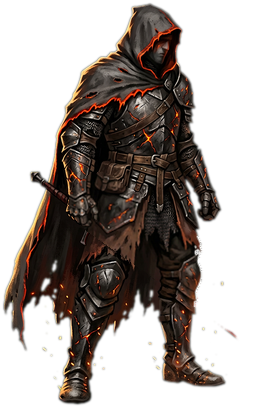
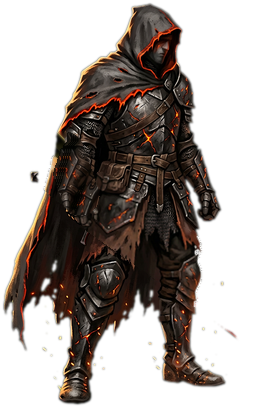
Взмах вместе с рукой: слой руки и росчерк за кистью; кнопки отката не мельчают

Changed region(s): [[0.1176, 0.3235, 0.3824, 0.5294]]

diff --git a/tools/rig_assets.py b/tools/rig_assets.py
@@ -103,6 +103,46 @@ def weapon_mask(image: Image.Image, config: dict) -> np.ndarray:
     return drop_small(mask, int(config.get("min_component_pixels", 120)))
 
 
+def arm_mask(image: Image.Image, config: dict) -> np.ndarray:
+    """Маска руки с оружием: предплечье и кисть до локтя.
+
+    Рука вырезается из тела отдельным слоем, чтобы в взмахе участвовала не
+    только сталь, но и кисть. Клинок остаётся дочерним слоем руки.
+    """
+    arm = config.get("arm")
+    if not isinstance(arm, dict) or not arm.get("points"):
+        return np.zeros((image.size[1], image.size[0]), dtype=bool)
+    width, height = image.size
+    alpha = np.asarray(image).astype(np.float32)[:, :, 3]
+    mask = segment_mask(width, height, arm.get("points", []), float(arm.get("radius", 16.0)))
+    mask = mask & (alpha > 24)
+    gate = arm.get("color_gate")
+    if gate:
+        # Плащ тёмный и почти без синего: в слой руки идёт сталь и кожа кисти.
+        array = np.asarray(image).astype(np.float32)
+        value = array[:, :, :3].mean(axis=2)
+        mask = mask & (value > float(gate.get("min_value", 42.0)))
+    return drop_small(mask, int(config.get("min_component_pixels", 120)))
+
+
+def fill_arm_hole(rgb: np.ndarray, mask: np.ndarray, solid: np.ndarray) -> np.ndarray:
+    """Затягивает место, где была рука: отражение второй половины и рост от краёв.
+
+    Затемнение здесь не нужно: под рукой плащ, а не тень от оружия.
+    """
+    filled, done = _mirror_fill(rgb, mask, solid)
+    rest = mask & solid & (~done)
+    if rest.any():
+        grown = _spread_fill(filled, mask, solid)
+        filled = np.where(rest[:, :, None], grown, filled)
+    band = dilate(mask, 1) & solid
+    soft = np.asarray(Image.fromarray(np.clip(filled, 0, 255).astype(np.uint8))
+                      .filter(ImageFilter.GaussianBlur(1.6))).astype(np.float32)
+    seam = band & dilate(mask, 1)
+    filled[seam] = (filled[seam] * 0.6 + soft[seam] * 0.4)
+    return filled
+
+
 def dilate(mask: np.ndarray, steps: int) -> np.ndarray:
     grown = mask.copy()
     for _step in range(steps):
@@ -320,8 +360,20 @@ def build(image: Image.Image, config: dict) -> tuple:
         solid = source[:, :, 3] > 24
         body[:, :, :3] = inpaint_hole(body[:, :, :3], core, solid, config)
     body[:, :, :3] = _fix_alpha_border(body[:, :, :3], body[:, :, 3])
+    arm_image = Image.new("RGBA", image.size, (0, 0, 0, 0))
+    arm_cut = arm_mask(image, config)
+    if arm_cut.any():
+        # Рука берётся из тела: клинка в ней уже нет, только кисть и предплечье.
+        arm_pixels = body.copy()
+        arm_pixels[:, :, 3] = np.where(arm_cut, body[:, :, 3], 0.0)
+        soft = Image.fromarray((arm_cut * 255).astype(np.uint8)).filter(ImageFilter.GaussianBlur(0.7))
+        arm_pixels[:, :, 3] = arm_pixels[:, :, 3] * (np.asarray(soft).astype(np.float32) / 255.0)
+        arm_image = Image.fromarray(np.clip(arm_pixels, 0, 255).astype(np.uint8))
+        solid = body[:, :, 3] > 24
+        body[:, :, :3] = fill_arm_hole(body[:, :, :3], arm_cut, solid)
+        body[:, :, :3] = _fix_alpha_border(body[:, :, :3], body[:, :, 3])
     body_image = Image.fromarray(np.clip(body, 0, 255).astype(np.uint8))
-    return body_image, blade_image, core
+    return body_image, blade_image, core, arm_image
 
 
 def _fix_alpha_border(rgb: np.ndarray, alpha: np.ndarray) -> np.ndarray:
@@ -390,14 +442,21 @@ def main() -> int:
             print(f"  {name}: нет файла {source}")
             continue
         image = Image.open(source).convert("RGBA")
-        body, blade, mask = build(image, config)
+        body, blade, mask, arm = build(image, config)
         body_path = ROOT / str(config["body"]).replace("res://", "")
         blade_path = ROOT / str(config["blade"]).replace("res://", "")
         body_path.parent.mkdir(parents=True, exist_ok=True)
         body.save(body_path, optimize=True)
         blade.save(blade_path, optimize=True)
+        extra = ""
+        arm_path_value = str(config.get("arm_file", "")).replace("res://", "")
+        if arm_path_value:
+            arm_path = ROOT / arm_path_value
+            arm_path.parent.mkdir(parents=True, exist_ok=True)
+            arm.save(arm_path, optimize=True)
+            extra = f", {arm_path.name} {arm_path.stat().st_size // 1024} КБ"
         print(f"  {name}: {body_path.name} {body_path.stat().st_size // 1024} КБ, "
-              f"{blade_path.name} {blade_path.stat().st_size // 1024} КБ")
+              f"{blade_path.name} {blade_path.stat().st_size // 1024} КБ{extra}")
         if show_preview:
             preview(name, image, body, blade, mask, config)
     return 0

diff --git a/tools/validate_repo.py b/tools/validate_repo.py
@@ -805,6 +805,15 @@ else:
             err(f"data/balance.json: у рига {character_id} не задан радиус росчерка")
         if not ("rest_degrees" in entry):
             err(f"data/balance.json: у рига {character_id} не задан наклон оружия в стойке")
+        arm_file = str(entry.get("arm_file", "")).replace("res://", "")
+        if arm_file:
+            if not (ROOT / arm_file).is_file() or not (ROOT / (arm_file + ".import")).is_file():
+                err(f"data/balance.json: у рига {character_id} нет слоя руки {arm_file}")
+            arm_pivot = entry.get("arm_pivot", [])
+            if not isinstance(arm_pivot, list) or len(arm_pivot) < 2 or float(arm_pivot[0]) <= 0 or float(arm_pivot[1]) <= 0:
+                err(f"data/balance.json: у рига {character_id} не задано плечо руки")
+            if float(entry.get("arm_strike_degrees", 0)) == float(entry.get("arm_windup_degrees", 0)):
+                err(f"data/balance.json: у рига {character_id} рука не двигается в взмахе")
 figures = hud.get("enemy_figures", {})
 if not isinstance(figures, dict) or len(figures.get("by_id", {})) < 10 or len(figures.get("figures", [])) < 3:
     err("data/balance.json: фигуры войск противника заданы не полностью")

diff --git a/docs/android.md b/docs/android.md
@@ -19,7 +19,9 @@
 4. На устройстве с ограниченной производительностью включить 30 FPS и упрощённый режим эффектов. Фоновые частицы, всплывающие подписи и подсветки должны отключиться, а журнал боя, полосы здоровья и управление остаться рабочими.
 5. Сравнить полный и упрощённый режимы в боссовом бою. В служебной строке виден замер `КАДРЫ …`; цель проекта — стабильные 60 FPS на целевом устройстве, 30 FPS допустимы как экономичный вариант.
 6. Проверить все шесть подписанных кнопок нижней навигации: `БОЙ`, `ИНВЕНТАРЬ`, `ПРИЗЫВ`, `ПРОГРЕССИЯ`, `РЕЖИМЫ`, `НАСТРОЙКИ`. Каждая кнопка с локальной иконкой и подписью открывает свой реальный раздел; заголовок меняется, активный раздел выделен и показывает `СКРЫТЬ`, одновременно открыта одна рабочая панель, длинные подписи не обрезаются и не требуют горизонтальной прокрутки, а боковой колонки иконок больше нет.
-7. Проверить ручной удар, щит, автобой, победу, переход этапа, раздел трёх режимов, Башню и подземелье. Эффекты должны оставаться ограниченными пулом из `presentation.effect_pool.capacity`. При каждом ударе фигуры должны двигаться: герой делает шаг к врагу и замахивается мечом, латник — топором, защитник отшатывается, и всё возвращается на место; клинок не должен дёргаться отдельно от кисти и не должен дублироваться: в стойке в руке одно оружие, при взмахе на месте клинка не остаётся второго. Взмах должен читаться как замах, а не тычок: оружие сначала медленно уходит назад (около 0.18 c), потом резко проходит дугу в 140–170°, за ним тянется полоса росчерка, и только затем оно возвращается в стойку. Числа урона, `КРИТ`, название навыка и `ЩИТ` появляются одновременно, но не наезжают друг на друга и не закрывают строку здоровья героя и имя врага.
+7. Проверить ручной удар, щит, автобой, победу, переход этапа, раздел трёх режимов, Башню и подземелье. Эффекты должны оставаться ограниченными пулом из `presentation.effect_pool.capacity`. При каждом ударе фигуры должны двигаться: герой делает шаг к врагу и замахивается мечом, латник — топором, защитник отшатывается, и всё возвращается на место; клинок не должен дёргаться отдельно от кисти и не должен дублироваться: в стойке в руке одно оружие, при взмахе на месте клинка не остаётся второго. Взмах должен читаться как замах, а не тычок: оружие сначала медленно уходит назад (около 0.18 c), потом резко проходит дугу в 140–170°, за ним тянется полоса росчерка, и только затем оно возвращается в стойку. Рука с кистью должна двигаться вместе с '
+     'оружием, а не стоять на месте; на откате навыка кнопки удара и щита должны оставаться того же размера, '
+     'что и до нажатия. Числа урона, `КРИТ`, название навыка и `ЩИТ` появляются одновременно, но не наезжают друг на друга и не закрывают строку здоровья героя и имя врага.
 8. Проверить поворот/разные соотношения сторон в портретной ориентации, отсутствие мини-карты и джойстика, а также некликабельность декоративных блоков `СКОРО`. Панели не выходят за экран, заглушки не открывают пустые экраны, а частицы центрируются при изменении размера области отображения. Отдельно стоит посмотреть телефон 19.5:9 или 20:9 и планшет 4:3: на вытянутом экране боевая группа опускается к навигации без пустой полосы, на широком — арена тянется вправо, кластер навыков остаётся в правом нижнем углу, а ни одна подпись не обрезана. Имена врагов и подсказка над ареной должны читаться поверх факелов и луны благодаря тёмному ореолу букв.
 9. Свернуть приложение, вернуться позже и проверить локальное сохранение и AFK-награду до 12 часов. Закрыть приложение полностью и убедиться, что прогресс и настройки восстановились.
 10. Повторить короткую сессию без сети и убедиться в отсутствии зависаний, утечек звука, ошибок в логах и самопроизвольных сетевых запросов.

diff --git a/docs/ui.md b/docs/ui.md
@@ -138,6 +138,10 @@
 
 **Росчерк.** За клинком тянется полоса по дуге: `AshenStyle.trail_arc_texture()` рисует серп вокруг кисти (мягкие края, сужение к концам), а `swing_arc_sweeps` [70, 120, 170] даёт три ступени размаха. Пока идёт удар и перелёт, `_emit_swing_arc()` каждые `swing_arc_step_degrees` 26° ставит следующую дугу в центр кисти атакующего, повёрнутую по середине пройденного угла, поэтому след растёт вместе с движением, а не появляется одним кадром. Полосы гаснут за `swing_arc_life_seconds` 0.2 c и чуть расходятся в масштабе. Радиус берётся из `rig.characters.*.reach`, наклон оружия в стойке — из `rest_degrees`, цвет — `EMBER` у героя и `CRIMSON` у врага. В упрощённом режиме эффектов росчерк не рисуется.
 
+**Рука в взмахе.** Слой оружия показывает только сталь: кисть и предплечье оставались в теле, и клинок крутился вокруг неподвижной ладони. Поэтому у персонажей с оружием появился третий слой — `arm_file` (`hero_battle_arm.png`, `bone_legionnaire_arm.png`): предплечье с кистью, вырезанное из тела по `arm` (точки и радиус капсулы), а место руки в теле затянуто отражением второй половины фигуры и ростом цвета от краёв (`fill_arm_hole`). В сцене рука лежит между телом и клинком (`HeroArm`, `EnemyArm1…5`), а клинок — её дочерний слой, поэтому кисть и меч двигаются вместе: `_swing_weapon()` качает руку вокруг плеча `arm_pivot` на `arm_windup_degrees` −26° и `arm_strike_degrees` 20°, а клинок добавляет свой размах уже относительно руки. Узел руки не скрывается никогда — иначе вместе с ним пропадал бы клинок. Центр росчерка теперь считается по текущей матрице клинка, поэтому дуга летит за кистью, а не за первоначальной точкой хвата.
+
+**Кнопки на откате.** Кольцо перезарядки рисуется по самому ободу (`custom_minimum_size` минус 4), иконка навыка приглушается цветом (`0.55 / 0.5 / 0.58`) без потери прозрачности, а подпись секунд не задаёт минимальный размер. Раньше кольцо было на 12 пикселей меньше кнопки, а иконка гасла до 45% прозрачности — боевые кнопки казались уменьшенными, едва начинался откат.
+
 **Чистая основа.** Прорезь нельзя залить соседними пикселями: клинок проходит по подолу и ноге, и любая заливка читается вторым мечом. Поэтому у персонажей с оружием рядом с исходной фигурой лежит `clean_body` — та же фигура без оружия (`hero_battle_clean.png`, `bone_legionnaire_clean.png`). `tools/rig_assets.py` матирует её (фон может быть запечён шахматкой), масштабирует по высоте исходника, ставит ступни на тот же уровень, центрирует по корпусу и подставляет только в полосу оружия, расширенную на `patch_pixels` 9. Вне полосы остаётся исходная графика, поэтому в стойке фигура выглядит как раньше. Если чистой основы нет, работает запасной путь — заливка соседними пикселями; тогда на месте клинка остаётся тень, и это заметно.
 
 Взмах запускается из того же события урона, что и шаг: бьёт герой — замахивается его клинок, бьёт враг — замахивается оружие врага, а защитник одновременно отшатывается. Навык начинается с взмаха и шага. В упрощённом режиме эффектов взмах не запускается, при повороте экрана снимается вместе с шагом, а смена фазы эффектов сбрасывает углы в ноль, поэтому фигуры не остаются перекошенными.

diff --git a/docs/api_reference.md b/docs/api_reference.md
@@ -963,7 +963,9 @@
 - `animation_config: Dictionary`
 - `rig_config: Dictionary`
 - `hero_blade: TextureRect`
+- `hero_arm: TextureRect`
 - `enemy_blades: Array`
+- `enemy_arms: Array`
 - `ui_animations: Array`
 - `auto_advance: bool`
 - `auto_advance_timer: float`
